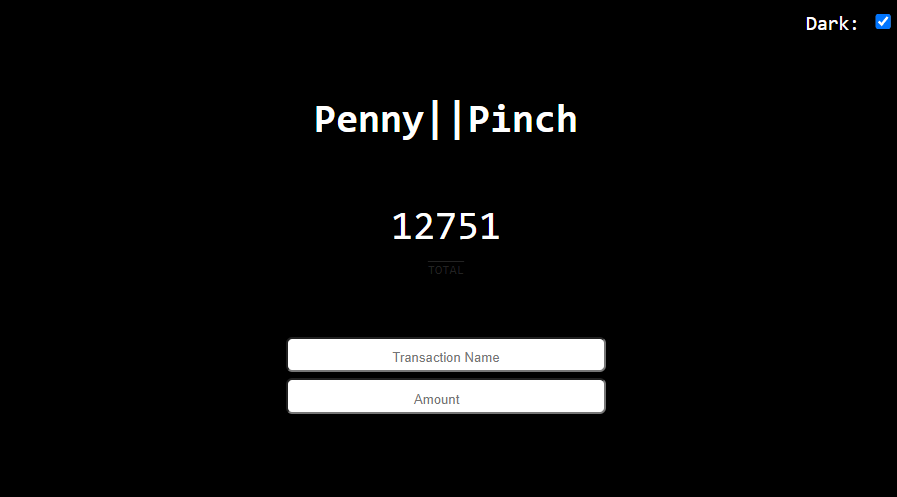
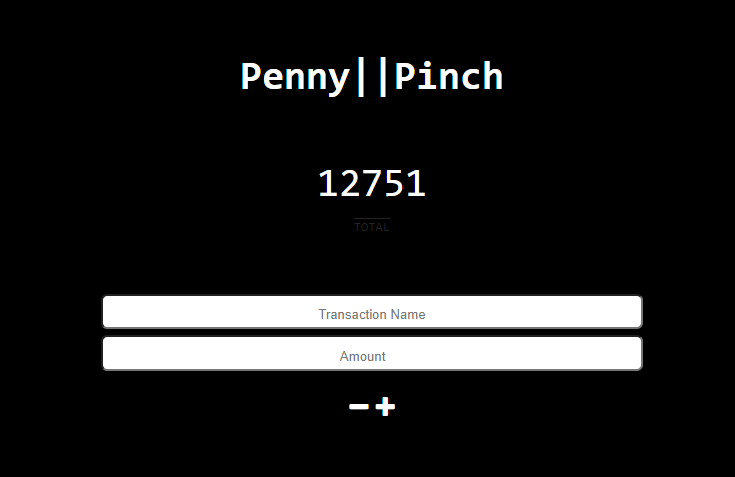
fix button style

diff --git a/public/index.html b/public/index.html
@@ -39,12 +39,12 @@
       <input type="text" id="t-name" placeholder="Transaction Name" />
       <input type="number" min="0" id="t-amount" placeholder="Amount" />
       <div class="btn-box">
-        <span name="button" id="sub-btn">
-          <i class="fa fa-minus"></i>
-        </span>
-        <span name="add" id="add-btn">
-          <i class="fa fa-plus buttons"></i>
-        </span>
+        <div>
+          <i id="sub-btn" class="fa fa-minus"></i>
+        </div>
+        <div>
+          <i id="add-btn" class="fa fa-plus buttons"></i>
+        </div>
       </div>
     </div>
 
